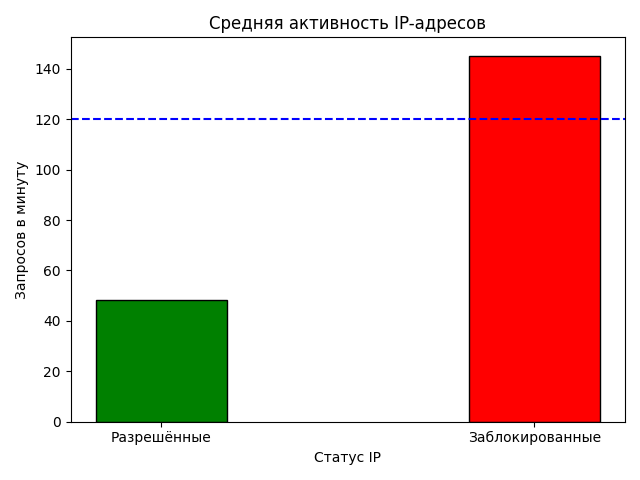
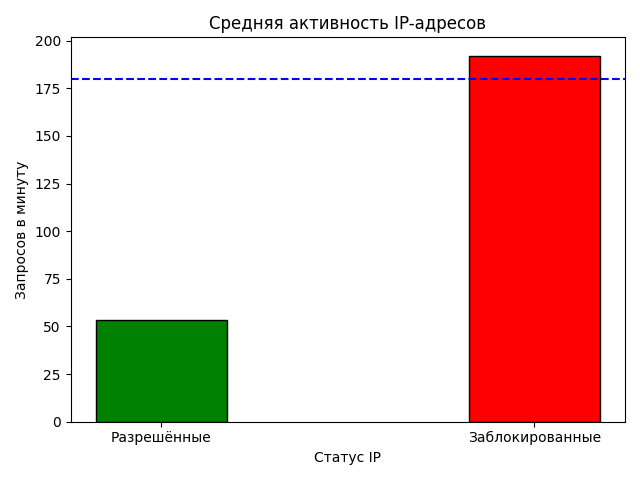
Изменения2

diff --git a/main.py b/main.py
@@ -130,9 +130,9 @@ import matplotlib.pyplot as plt
 #Расчёт порога блокировки
 R, T, N = symbols("R T N")
 
-BASE_RPS = 100
+BASE_RPS = 120
 WINDOW = 60
-IPS_COUNT = 50
+IPS_COUNT = 40
 
 threshold_expr = (R * T) / N
 THRESHOLD = float(threshold_expr.subs({R: BASE_RPS, T: WINDOW, N: IPS_COUNT}))
@@ -140,12 +140,12 @@ print(f"Порог блокировки: {THRESHOLD:.0f} запросов за {
 
 #IP-адреса и количество запросов
 ip_addresses = [
-    "192.168.1.10",
+    "192.165.1.10",
     "192.168.1.11",
     "10.0.0.5",
     "192.168.1.12",
     "172.16.0.3",
-    "192.168.1.13",
+    "192.165.1.13",
     "10.0.0.15",
     "192.168.1.14",
     "192.168.1.15",
@@ -153,16 +153,16 @@ ip_addresses = [
 ]
 
 requests_per_ip = [
-    47,  
+    183,  
     60,   
-    124,  
+    190,  
     60,   
-    150,  
+    187,  
     49,   
-    173,   
+    203,   
     39,   
-    35,   
-    134   
+    60,   
+    198   
 ]
 
 blocked_status = []
